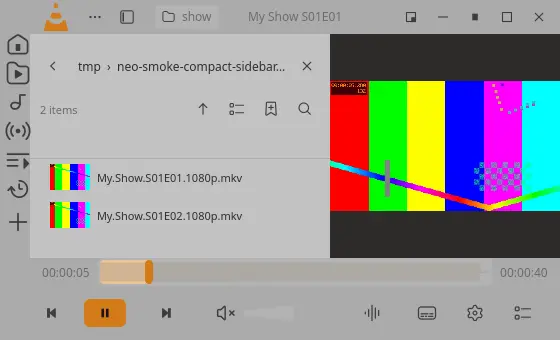
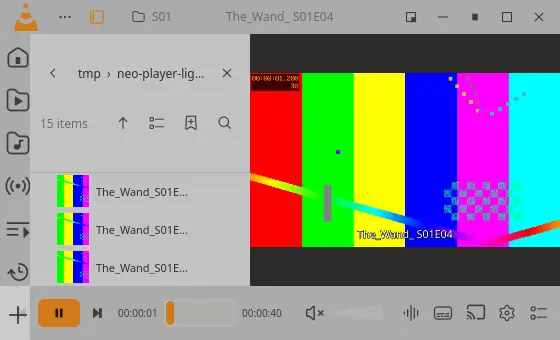
fix: match light video sidebar width to Figma

diff --git a/qml/Main.qml b/qml/Main.qml
@@ -126,7 +126,7 @@ ApplicationWindow {
     property bool bottomHot: false
     readonly property real playlistPaneWidth: Math.max(220, Math.min(375, width * 0.222 - navigationRail.width))
     property real libraryPaneLayoutWidth: libraryOpen ? Math.max(220, Math.min(410, Math.ceil(width * 0.19635)))
-        : (folderSidebarOpen ? Math.max(220, Math.min(500, width * 0.20))
+        : (folderSidebarOpen ? Math.max(220, Math.min(500, Math.ceil(width * 0.19635)))
            : (musicSidebarOpen ? Math.max(280, Math.min(380, Math.round(width * 0.19635))) : 0))
     Behavior on libraryPaneLayoutWidth {
         NumberAnimation { duration: 220; easing.type: Easing.OutCubic }

diff --git a/docs/figma-parity.md b/docs/figma-parity.md
@@ -64,7 +64,7 @@ The video canvas background uses Figma charcoal `#2C2B29` in both themes. Video 
 | **Player** — `187:328`, `970:3308`, `970:3792`, `970:2703`, `970:4028`, `6261:15078`, `247:445` | Main playback surface and its seven visual states. The metadata names all seven `Player`; node `6261:15078` is the Home library dashboard and `187:328` shows the Playlists navigation state. | `Main.qml`, `HomeView.qml`, `LibraryPanel.qml`, `PlaylistsPanel.qml`, `NavigationRail.qml`, `TopBar.qml`, `TimelineBar.qml`, `ControlBar.qml`, `SidePanel.qml`, `ControlItem.qml`, `PlayButton.qml`, `SeekBar.qml`, `ConeVolume.qml`, `ResumePill.qml`. Home opens a full library dashboard with Continue Watching video cards, indexed Listen Again music, and frequently visited indexed folders. Video cards use asynchronous VLC-decoded thumbnails and saved resume point/duration data; music cards show indexed cover art and open the selected track. The dashboard keeps the expanded rail, app title and home search toolbar while hiding playback controls. The persistent rail matches the Figma Home navigation labels and order: Home, Videos, Music, Network, Playlists, Recent and Add item. Selecting Home, Videos, Music, Playlists or Recent from the rail opens that view in a side pane beside the live player. The topbar Library control opens the Figma Home dashboard in that pane and toggles the entire rail and pane closed together, restoring the previous player or library context. The compact Home pane uses Figma-sized thumbnail rows for Continue Watching, Listen Again, visited folders and playlists. The dedicated expand action opens the full-page library, where the rail expands and the playback surface becomes the mini-player. Folder browsing remains available from the Videos library and file picker. Saved M3U, M3U8, PLS and XSPF files appear in a persistent Playlists pane; it can search, sort, change row density and play an entry. Its width scales with the player window to retain the Figma proportion from the default size to the 1920 px reference frame. The pane stays beside the live video, matching the layout in node `187:328`. The rail scales up to 210 px on wide windows, matching the folder-browser state in node `970:3308`. The browser toggles between the Figma five-column poster grid (`970:2703`) and four-column file list (`970:3792`); the mini-player moves to the lower-right in grid mode and lower-left in list mode, and grid thumbnails show saved/current playback progress. Opening a library view replaces the playback surface with a full-width local folder browser and hides the bottom transport bar; video files load asynchronous VLC-decoded thumbnails in the grid, the live video frame moves into a floating player card, and search filters filenames. Rail, track-picker, settings-panel, transport and icon controls support Tab focus and Space/Return activation with visible focus styling. The timeline and transport now share a single 54 px footer row, with the seek bar between Next and Volume; elapsed and duration labels are 64 px at desktop size, 48 px in compact windows and hidden in 320–399 px PiP while seeking remains available. This follows the one-row composition in Figma node `247:445`; preexisting saved layouts that included `time`, `seek` or `length` are migrated out of the movable control list. Compact windows retain reduced spacing. The seek bar supports Tab focus, Left/Right seeking and Home/End jumps, subtitle cue lookup, asynchronous local-video thumbnails and an audio waveform for local media. VLC decodes both off the UI thread, limited to two workers and 64 admitted thumbnail responses, with results held in a 16 MiB LRU cache; `bounded_image_cache_test` verifies the configured cost ceiling and least-recently-used eviction. Closing the UI cancels worker subprocesses and drains queued decoding before Qt image plugins tear down. Waveform extraction times out after 20 seconds on slow files. Track-picker geometry follows its button anchor and stays within the window when resized. The Video side panel previews the current frame as Original, Sepia, Invert, Posterize, Old movie, Gaussian blur, Sharpen, VHS and Grain; one VLC-decoded frame feeds all nine previews asynchronously through the bounded thumbnail cache. Selecting a tile updates VLC’s live `video-filter` chain and preserves unrelated filters. Focused real-VLC coverage confirms all nine previews load and the four additional filters apply while preserving the picture-adjustment filter. PiP switches to a compact 16:9 window, keeps its title clear at 320×180, shows only exit and quit in the top bar, requests always-on-top through Qt and additionally pins it through Hyprland, and restores the prior size and position (or maximized state) when the PiP exit button is clicked. Plain video playback hides the navigation rail and aligns the top and bottom bars to the left edge, matching `247:445`; Home, library and side-panel states show the rail. An idle folder browser omits the mini-player, matching `970:4028`. The TopBar uses the onboarding chrome layer only for the non-preview welcome/shortcut steps; in the theme preview and normal player it remains under `keyCatcher`, where its left inset accounts for the navigation rail. Smoke asserts both the 18 px theme-preview inset and the rail-width offset on the Playlists screen, covering the previous cross-parent anchor warning. The seven Player nodes listed here have now been compared at 1920×1080. Figma icon aliases are now checked against the canonical SVG resources directly: the icon test opens every alias target from the Figma resource bundle and compares its rendered pixels with the alias output; all 207 checksum-manifest entries (206 SVGs plus the index) match the pinned export commit. **Partial.** smoke coverage now verifies hover colors and focus rings for the transport and all 25 optional controls. Review artwork and waveform quality across varied real media, and always-on-top behavior under Hyprland. F11 now reaches a 1920×1080 fullscreen surface under Metacity on Xvfb; moving to the bottom edge reveals the timeline and controls, and exiting restores the 1120×680 window. A live XCB run on the 1920×1080 eDP-1 display confirmed fullscreen entry and tested both fullscreen-control preferences: controls stay visible when enabled; when disabled, chrome hides and a bottom-edge pointer event reveals it with the single-row 54 px footer. The toolbar layout was compared with Figma node `247:445`; its rail-free player frame, title bar and lower controls align. The one-hour test capture confirms that a ten-minute fade remains visible across the full timeline. A focused run on [Thoughtness.ogg](https://commons.wikimedia.org/wiki/File:Thoughtness.ogg), a 46-second CC0 song, loaded and displayed its varied musical waveform in VLC. A separate ten-minute FFmpeg-generated MP3 with five known amplitude sections displayed the expected quiet, loud, silent, medium and loud blocks; additional music genres remain to review. Fullscreen edge-reveal on a real display is now covered. | Smoke checks the timeline slot between Next and Volume inside the 54 px footer, its keyboard focus and Left/Right seeking, Home to start, End to playback end, pointer hover on the visible Player timeline requesting and decoding a local-video preview, asynchronous waveform decoding, and a one-hour audio waveform with a ten-minute fade. At 560×340 it also checks the compact labels, seek width and keyboard navigation; at 320×180 PiP it checks labels collapse while seeking remains enabled. Focused offscreen probes independently pass at 560×340 (`compact=true`, keyboard focus and Right seek beyond 5 s) and 320×180 PiP (transport/seek remain enabled and inside the window). The Light sidebar density probe decodes all 15 local thumbnails and reports 15 ready entries at 1920×1080 (`sidebarLayout=15/384/true`, `ready=15`; about 18 seconds). It also checks Home shelves, search and sort, compact-card mode, video-card playback, persisted resume progress, responsive layout and a decoded thumbnail at 1920×1080, playback-frame rail hiding and chrome alignment, an idle full-width folder browser without the mini-player, library indexing, playback, duration, next item and pause/resume. It focuses and activates video/recent side navigation, checks full-page folder browsing through the dedicated expand action, hidden bottom transport controls, the live mini-player and filename search, verifies a VLC-decoded folder thumbnail, toggles grid/list layout and mini-player corner placement at 1120 and 1920 px, saves an M3U8 into the persistent playlist folder, reopens the playlist view, filters a playlist name and verifies density/sort/width controls. It verifies PiP shrinks the window to 320×180 and restores its exact prior geometry. At 1120 and 1920 px it checks the rail and Playlists pane preserve their combined width ratio. It also checks popup dismissal/repositioning, clicks the Sepia and Original video-effect tiles while preserving the active picture-adjust filter, applies Gaussian blur, Sharpen, VHS and Grain through VLC while retaining adjustment, and waits for all nine asynchronous effect previews to load, and captures dark, light, compact, settings, timeline, expanded-navigation and Home/library/playlist states. The thumbnail provider smoke also submits 30 simultaneous requests (above its 24-job bound) and checks that every image eventually decodes without an error.| The refreshed [`player.webp`](screenshots/player.webp) is a 1920×1080 capture using the attributed MDN CC0 flower video; its timeline and transport share one 54 px footer row. At 1920×1080, visual comparisons now cover all seven listed Player nodes: `187:328` (playlist pane), `970:3308` (folder browser), `970:3792` (compact file list), `970:2703` (poster grid), `970:4028` (idle browser), `6261:15078` (Home) and `247:445` (player with hidden rail). The fresh 110-item compact-list capture matches node `970:3792` in four-column layout, 44 px row pitch, small decoded thumbnails and lower-left mini-player placement. A fresh comparison of node `970:2703` with the latest `folder-browser-grid-1920.png` confirms the 1920×1080 viewport, 210 px rail, header/tool row, five-column card sizing and lower-right mini-player placement. The smoke fixture contains only two generated clips rather than the reference’s 110 named episodes and poster artwork, so content-level poster parity remains open. The `187:328` playlist pane and bottom controls were also checked at 1920×1080 with the pointer revealing the controls; the combined rail and pane width follows the Figma proportion. The fullscreen toolbar was compared with node `247:445` during a live 1920×1080 XCB run on eDP-1; both fullscreen preference states and bottom-edge reveal were verified. XCB captures at 1920×1080 show the playlist Search tooltip on hover and a one-pixel accent focus ring on a rail button; the earlier 1120×680 capture shows the Playback Settings tooltip and focus ring. The full smoke run verifies hover colors and focus rings for the transport and all 25 optional controls; VLC-backed actions are exercised for Favorite, Thumbnail, Properties, Bookmarks and Replay. A focused run loaded all nine effect previews from the public [MDN CC0 flower clip](https://interactive-examples.mdn.mozilla.net/media/cc0-videos/flower.mp4); [`video-effects-flower.webp`](screenshots/video-effects-flower.webp) records the color-rich live frame and distinct effect tiles. Remaining visual checks: always-on-top behavior under Hyprland, plus waveform rendering on additional long-form tracks and genres. A live PiP run on the Cinnamon/Muffin desktop exposed `_NET_WM_STATE_ABOVE` and placed the 480×270 window at the expected lower-right corner. Hyprland-specific pinning still needs verification. |
 | **Player - Music** — `4767:23726`, `4778:25123` | Audio-focused player with artwork, “My Songs”, track title and a continue-watching state. | `MusicView.qml`, `LibraryPanel.qml`, `src/media_library.*`, `Main.qml`. Audio files from indexed folders are scanned asynchronously; TagLib reads title, artist, album, genre, duration and embedded cover art. SQLite persists the catalog and roots; case-folded search spans tags and file paths. Tracks, albums, artists and genres are browseable; opening an album, artist or genre lists its tracks. Folder removal and full catalog clearing remove database entries and unreferenced cached art. On the 1920×1080 Figma frame the sharp cover is 740×740 px, with a 72 px title gap and 22 px muted label; the cover scales down in compact windows. Title and artist share one line, with a darkened, full-window blurred copy of the cover behind the sharp artwork. The top bar shows “My Songs” during audio playback; clicking it toggles a 280–380 px music sidebar while playback stays visible. At 1920 px, the Songs/My Songs pane is 377 px wide, matching the Figma frame. The audio-only control bar has the Figma visualizer menu, which caps its height to the available window and scrolls its options in compact layouts. Its choices persist VLC's `audio-visual` and `effect-list` options and update the active VLC audio output, with Waveform mapped to VLC's `vuMeter` effect. **Partial.** A direct browser inspection confirms both Figma screen frames are flattened image fills; the circular visualization is part of the reference artwork, not an editable vector layer. The current `music.webp` is refreshed from the latest full smoke capture. Its layout was compared at 1920×1080: the 740 px square cover, 72 px title gap, one-row footer and metadata placement align. The local test track and artwork differ from the reference image. The shipped VLC visualizer remains live and user-selected, but uses VLC's native rendering style. | Smoke indexes tagged local audio, confirms metadata/artwork, case-insensitive tag search, filename fallback for missing tags, album grouping, artists/genres/videos, persistence after relaunch, and clearing database rows and artwork. A live offscreen run indexed the local music folder, captures the sidebar beside audio playback, confirms the second click closes it, checks that the displayed item count follows visible music tracks rather than indexed files, and checks the 740 px Figma artwork, title gap and label typography plus compact resizing. The visualizer popup tests all four effect mappings, Disabled, trigger toggling and outside-click dismissal. A focused VLC run confirmed all four modes create the active visualizer output during playback and Disabled stops it. A compact-window runtime check confirmed entering the 180 px PiP layout dismisses the transient popup and constrains its scroll viewport to the available height. A focused real-VLC offscreen capture confirms the blurred cover backdrop renders behind the sharp artwork. The music-player smoke capture waits for asynchronous waveform extraction and uses a time-varying audio fixture with the authored dark visualizer-style cover in `tests/fixtures/music-cover.png`; its screenshot visibly contains the decoded waveform bars.| Captures of both Figma nodes were reviewed in the local browser. The 1920×1080 music-library sidebar was compared against node `4778:25123`; the 740 px cover, 72 px title gap and muted label size match the Figma measurements, and the waveform is visible after decoding. The sidebar count now tracks visible music-model rows; the real-VLC scenario confirms it shows `3 items` for three audio tracks alongside a cover image, matching the model rather than the four indexed files. A refreshed 1920×1080 real-VLC capture shows the authored visualizer-style cover fixture and its decoded waveform. The Figma artwork is a flattened raster composition, so its baked circular visualization cannot be independently compared with VLC's native live visualizer. Separate VLC Neo integration runs read title/artist/album/genre from MP3, FLAC, Ogg and M4A, used the filename for an untagged WAV, and removed stale paths after a media rename and removal on rescan. Embedded covers from MP3, FLAC and M4A produced the same SHA-256 as the source image. A local run indexed 5,000 M4A paths: adding the root returned in 14 ms and the scan completed in under 9 seconds on this machine. |
 | **Player - hide UI** — `3328:11554` | Video view with interface controls hidden. | `Main.qml`, `TopBar.qml`, `ControlBar.qml`. Ctrl+H hides the top bar, navigation rail, home screen and bottom controls, including when no media is loaded. Moving to the top edge reveals the header; moving to the bottom edge reveals transport controls; returning to the center hides them again. The Figma frame shows a decorative pixel-art cat as its video content; Neo leaves the active video visible. **Implemented.** | Smoke verifies the empty and playing states, checks top- and bottom-edge reveal plus center hide, and captures a 1920×1080 frame with OSD and title overlays disabled. The test assertions confirm all chrome flags are hidden after the pointer returns to the center, and that Ctrl+H suppresses its confirmation toast when hiding the interface.| Compared node `3328:11554` in the connected Figma browser. The 1920×1080 Xvfb/XCB capture shows the Sintel trailer while the title bar, controls and toast are absent. Direct comparison with the Figma frame confirms the full-screen hidden-chrome state; the visible difference is the active media content (Sintel versus Figma’s pixel-art cat). Sintel attribution and CC BY 3.0 are recorded in the README. |
-| **Player - Light** — `2425:13624` | Light player with a narrow folder list beside the live video. | `NeoTheme.qml`, `Main.qml`, `TopBar.qml`, `LibraryPanel.qml`. Clicking the video folder chip opens a responsive folder sidebar while video remains in the main surface; clicking it again closes the sidebar. The frame was compared in the browser at 1920×1080. Its sidebar occupies about 20% of the window; Neo uses that proportion at standard and wide sizes, with a 220 px minimum for compact windows. Compact rows use small VLC-decoded video thumbnails even when the full browser is in grid mode; the sidebar no longer lets grid-card sizing overflow its 38 px rows. The compact folder header now uses a breadcrumb row followed by an item-count and sort/view/search toolbar; Play folder and Queue all stay in the full folder browser, and the existing pin action remains available in the compact toolbar. The toolbar and first file row were visually rechecked against the Figma frame after adjusting compact-only spacing. Search starts as an icon and expands into a field on demand; the full-width browser retains its search field. The light rail and title bar use Figma A3 at 75% opacity over the charcoal canvas; the sidebar uses B1 at 80%. [`player-light-sidebar.webp`](screenshots/player-light-sidebar.webp) shows the current implementation. **Partial.** the poster artwork is dynamic media content. A local 1920×1080 comparison and a 560×340 resize check covered landscape, 4:3, portrait and square video rows; all thumbnails stay inside their fixed row bounds and the sidebar remains 300 px wide. | Full smoke verifies sidebar visibility, responsive width, decoded video thumbnails, collapsed/expanded search and filtering, pinning and navigation, closure, and compact-window usability; the corrected full real-VLC smoke run passed all 668 checks; the earlier shortcut-reset timing failure was fixed by waiting for the dialog to open, then verified in the full run. The toolbar assertion confirms it is shown in compact folder mode and the Play folder / Queue all row is hidden there.| Reopened Figma node `2425:13624` in the authenticated browser and compared it with the local capture: the rail and pane widths, header and file-row start positions align. A fresh lossless XCB capture sampled the sidebar at RGB 194,194,193, matching Figma at the same light-gray panel fill; its blank video canvas sampled RGB 44,43,41, matching Figma charcoal `#2C2B29`. The earlier one-channel differences came from comparing against a lossy WebP capture, so no theme-token change was needed. The local media fixture has different artwork and only two files. The fresh 560×340 [`player-light-sidebar-compact.webp`](screenshots/player-light-sidebar-compact.webp) capture confirms the sidebar stays at 300 px, leaves 260 px for video, keeps its compact toolbar and search available, and lets search open and close without hiding the panel. |
+| **Player - Light** — `2425:13624` | Light player with a narrow folder list beside the live video. | `NeoTheme.qml`, `Main.qml`, `TopBar.qml`, `LibraryPanel.qml`. Clicking the video folder chip opens a responsive folder sidebar while video remains in the main surface; clicking it again closes the sidebar. The frame was compared in the browser at 1920×1080. Figma’s side pane measures 377 px; Neo now uses the same 19.635% proportion at standard and wide sizes, with a 220 px minimum for compact windows. Compact rows use small VLC-decoded video thumbnails even when the full browser is in grid mode; the sidebar no longer lets grid-card sizing overflow its 38 px rows. The compact folder header now uses a breadcrumb row followed by an item-count and sort/view/search toolbar; Play folder and Queue all stay in the full folder browser, and the existing pin action remains available in the compact toolbar. The toolbar and first file row were visually rechecked against the Figma frame after adjusting compact-only spacing. Search starts as an icon and expands into a field on demand; the full-width browser retains its search field. The light rail and title bar use Figma A3 at 75% opacity over the charcoal canvas; the sidebar uses B1 at 80%. [`player-light-sidebar.webp`](screenshots/player-light-sidebar.webp) shows the current implementation. **Partial.** the poster artwork is dynamic media content. A fresh 1920×1080 comparison measures the pane at 377 px; focused responsive probes measure 262 px at 1333 px and 220 px at 560×340, leaving 310 px for video in the compact window. Landscape, 4:3, portrait and square video rows stay within their fixed thumbnail bounds. | Full smoke verifies sidebar visibility, responsive width, decoded video thumbnails, collapsed/expanded search and filtering, pinning and navigation, closure, and compact-window usability. The latest completed CI run (`40811644836`) passed 849/849 real-VLC smoke assertions before this width adjustment; focused real-VLC geometry probes after the change verify 377/262/220 px at 1920/1333/560 px. The compact toolbar stays visible while Play folder and Queue all remain hidden there.| Reopened Figma node `2425:13624` in the authenticated browser and compared it with the local capture: the rail and pane widths, header and file-row start positions align. A fresh lossless XCB capture sampled the sidebar at RGB 194,194,193, matching Figma at the same light-gray panel fill; its blank video canvas sampled RGB 44,43,41, matching Figma charcoal `#2C2B29`. The earlier one-channel differences came from comparing against a lossy WebP capture, so no theme-token change was needed. A fresh fixture comparison contains 15 rows and reports 15/15 visible thumbnails ready; its test-pattern artwork differs from Figma. The refreshed 560×340 [`player-light-sidebar-compact.webp`](screenshots/player-light-sidebar-compact.webp) capture confirms a 220 px pane, 310 px video area, and visible compact toolbar and search. |
 | **Player - customize** — `2107:5604`, `2160:6137`, `2160:6564`, `2160:7005`, `2160:7437`, `2160:7869`, `6587:19923`, `2160:8301`, `2160:8732` | Nine separate visual states: the palette, multiple saved control-bar layouts with already-used items removed from the palette, and a folder-browser state with the customized bar. Figma frame captures for all nine have now been inspected; the last state (`2160:8732`) is the folder browser, not an open customization dialog. | `CustomizeDialog.qml`, `ControlItem.qml`, `ControlBar.qml`, `TimelineBar.qml`, `NeoTheme.qml`, `MediaPropertiesDialog.qml`. Palette has 30 supported Figma controls in a 9-column grid; the unsupported HDR action leaves one reserved empty slot at its Figma position, while Playlist Name displays the opened playlist filename; the 1060×666 dialog and compact tiles align with node `2107:5604`. At short window heights, the content scrolls above a fixed footer so profile actions stay reachable. The fixed timeline, elapsed time and duration stay outside the movable palette. Previously saved `time`, `seek` and `length` controls are filtered out during layout reads, preserving the rest of each user's layout. Previous, Play and Next remain fixed on the bar, cannot be removed, and cannot be dragged directly; other controls can be added, reordered and removed around them. HDR remains omitted because VLC Neo has no corresponding working action. Reset/Save/Cancel are separate. Implemented controls include persistent favorites, seek-thumbnail toggle, replay, media properties, bookmarks and chapter access, plus 15-second skips, metadata labels, playlist/home/settings actions and quit. New installs use the Figma transport, fixed timeline and audio/subtitle/settings/queue layout; extra Neo controls remain available in the palette. Named profiles save and restore theme, accent, auto-hide behavior, window startup preference, control layout and a curated set of supported VLC playback, decoding, buffering, audio/video filter and subtitle appearance options. Below 720 px, metadata controls and leading flexible space collapse so playback controls flow from the left; below 400 px, the bar retains Previous, Play, Next, volume and fullscreen. **Partial.** | Full smoke verifies the 30 active controls, the fixed Figma HDR slot and Playlist Name position, keyboard focus and activation of transport/icon controls, focus-fill and accent-ring assertions for palette/bar tiles, Space add/remove actions, fixed transport controls, compact toolbar reflow at 560 px and 320 px, dynamic palette membership, legacy-layout migration, drag add/reorder/remove, cancel, action behavior and a customized folder-browser layout. A focused dialog run saves a named profile, scrolls to its row and activates Apply, then confirms that buffering, hardware-decoder, video-filter, subtitle-style and playback options are restored; proxy-password injection is rejected. The corrected full smoke passed all 668 checks with the rebuilt `build-fidelity2` plugin, including the shortcut-reset assertion and recording scenario under full-suite load. Focused palette checks verify transparent/borderless idle tiles, Figma-colored pointer hover, and the accent focus ring.| Rendered and compared local 1920×1080 captures for the saved-layout states in `2160:6137`, `2160:6564`, `2160:7005`, `2160:7437`, `2160:7869`, `6587:19923` and `2160:8301`. The `2160:8732` folder-browser state was also compared in the connected Figma browser; rail and pane widths, titlebar, timeline and transport align. Its 15 named media items and pixel-art video differ from the two generated fixture files and test video in the local capture. The freshly regenerated `customize.webp` matches node `2107:5604` with the unsupported HDR slot kept empty; the Quit VLC label now matches the reference: Figma palette items have no card outlines, so the idle local palette tiles are transparent and borderless. The pointer-hover fill uses `#191919`, matching Figma Button Variant2; focused tiles retain the accent outline. The smoke now pointer-targets the Settings, Queue, Audio, Subtitle and Play controls by object name; a focused real-VLC run at 1120×680 confirmed each reports its Figma hover fill and icon/accent color. The centered title now follows VLC media metadata, respects `qt-name-in-title`, and elides within its 42% width. Directly comparing Figma node `2160:6137` in the connected browser showed its media title centered in the titlebar; a focused VLC run confirmed the matching dynamic label and the fixed app-label fallback. The smoke pointer-targets Settings, Queue, Audio, Subtitle, Play, Previous and Next and checks the volume-mute hover in dark (`#191919`) and light (`#B3B3B3`) themes. A focused real-VLC run then appended each of the 25 optional icon controls to the default layout one at a time and verified its visible hover fill, one-pixel accent focus ring and focused hover surface; the smoke runner now repeats all 50 checks. Palette/bar tiles have their own focus-ring checks. |
 | **Settings - global** — `999:5047`, `3046:9282` | Global/app preferences: appearance, startup, diagnostics, developer options and advanced settings. | `SettingsDialog.qml` follows Figma's Global Settings header, search field and App / Media / System category groups. A persisted Simple / Advanced switch exposes VLC options marked advanced without discarding their stored values; category icons switch to their exported Figma active-state SVGs when selected; the refreshed Video capture uses `video-active.svg`. Numeric controls validate input and retain fractional values for float options. Theme/accent, one-instance, queue behavior, file logging, browsable log destination/detail, VLC verbose logging as Developer mode and the `qt-error-dialogs` confirmation/error switch are wired; onboarding access is under Interface settings. The log destination field is 180 px wide and its Browse button stays beside it. Startup includes an opt-in VLC Neo update check against the project's public GitHub tags, with semantic version comparison and a daily cooldown; it reports a newer tag and never downloads or installs software. The installed version comes from CMake's project version. The header keeps the Figma search/title/close layout; the redundant quick detail toggle was removed. The Advanced Options control stays named as in Figma when expanded and sits at the bottom of the page. The expanded section maps minor-warning visibility to VLC quiet mode, log format to `logmode`, statistics collection to `stats`, and additional interfaces to `extraintf`. Global accent swatches use the compact square treatment from the Figma frame; onboarding retains its separate circular swatches. The frame was compared at its 1048×865 Figma dimensions. The Figma language selector is represented by a disabled English-only row with a clear explanation; additional interface translations are not bundled. **Partial.** | Smoke asserts the 1048×865 Figma frame and 180 px log destination field, captures the Figma Global Settings example state in `docs/screenshots/settings-global.webp`, exercises category filtering and the detail-level button, verifies that the log-path Browse button opens the native save picker, checks integer/float parsing, round-trips a float VLC option, verifies advanced-option visibility/value/mode persistence, round-trips `qt-error-dialogs` and VLC verbose logging, confirms the Developer mode switch updates when verbosity changes elsewhere, verifies Simple/Advanced visibility plus the live quiet/logmode/stats controls, checks update opt-in/default state, numeric tag ordering, daily cooldown and preference persistence, and checks theme/accent and VLC config persistence. A live offscreen request to GitHub returned successfully and found no tag newer than `v0.1.0`.| Compared the refreshed 1048×865 `settings-global.webp` against Figma node `999:5047`: English language, Dark theme, orange accent, confirmation and update checks off, logging on, Developer mode off and Errors only match the example state. Section spacing, diagnostics path controls, category rail and Advanced Options position align. The Figma inspector confirms this node is intentionally set to 20% opacity, so its dimmed colors do not establish the intended full-opacity app palette. The second node, `3046:9282`, is at 100% opacity. Its expanded Advanced controls for minor warnings, log format and playback statistics now map to VLC’s `quiet`, `logmode` and `stats` settings; the additional-interface row maps to VLC’s `extraintf` and is labeled for that real behavior. The Figma field named “Additional command line options” has no equivalent live VLC config option, so Neo keeps its general option editor instead of implying arbitrary command-line tokens will be applied. [`settings-global-advanced.webp`](screenshots/settings-global-advanced.webp) records the expanded state. The visible Core output verbosity and generic option editor are additional Neo controls. Additional UI translations remain an explicit localization gap. |
 | **Settings - interface** — `3046:10057`, `3062:11379` | Skin, window behavior, playback controls, notifications, system tray and auto-hide options. | `SettingsDialog.qml` fills the application window edge to edge with square corners and follows its resizing at the Figma frame size. At 1048×865, runtime bounds are exactly (0,0,1048,865), and the Interface page section positions match node `3046:10057`. Below 740 px, the category rail compacts to icon buttons with hover labels, preserving the 320 px settings fields at 560×340. The page gives the category its Figma title and follows the Figma order: Skin, Window, Playback Controls, Notifications and System Tray, then Setup. Auto-hide uses the Figma drop-down and a continuous 0–10 s slider; the supported row controls use the 320 px Figma width. `NCombo.qml` renders the selected value, outlined field and visible option rows, with selected-option checkmark, pointer selection, keyboard navigation and outside-click dismissal. Its compact 32 px field and option rows fit the preferences layout. `NSwitch.qml` now uses the Figma's 62 × 28 px ON/OFF proportions, with focus and keyboard activation. Interface controls include persistent fullscreen visibility, compact startup sizing, remembering window size/position, keeping the window above others, showing the media title in the system window title, resizing to video dimensions, and selecting the current or a detected display. The custom header shows the active media title when `qt-name-in-title` is enabled and falls back to “VLC Media Player” when that preference is disabled or no media is active; long titles elide within the centered title area. The selected display is applied before entering fullscreen. Window geometry is restored at startup and saved when Neo closes. The tray icon registers through `org.kde.StatusNotifierWatcher` without Qt Widgets and reopens Neo when activated; track notifications use `org.freedesktop.Notifications` according to VLC's Never / When minimized / Always preference. The Skin section writes VLC's `intf=skins2` preference and the selected `.vlt` path writes `skins2-last`; the regular `vlc` launcher honors skins2 after restart, while `vlc-neo` always opens Neo. The embedded-video and window-decoration controls store their VLC video-output options and explain that Neo's own player window always embeds video and draws its custom title bar. Those two options affect compatible VLC video-output interfaces, not Neo's QML window. **Partial.** | Smoke checks the skins2 interface selection and restart notice, `.vlt` file picker, embedded-video and decoration option round trips, full-window preference geometry (`settingsBounds=0,0,1048,865`) and resizing, the compact icon rail and 320 px controls at 560×340, slider mouse/keyboard changes, auto-hide modes, topmost/title behavior, fullscreen-on-open, F11 fullscreen entry/exit with geometry restoration, display selection/config persistence, compact startup, geometry save/restore, tray registration when a watcher is available, access to onboarding from Interface settings, dropdown toggle/selection behavior, and captures the interface page to `docs/screenshots/settings-interface.webp`. A VLC playback check confirms the titlebar displays the media title when enabled and falls back when disabled; a config round trip confirms `qt-video-autoresize` is exposed and writable.| Both 1048×865 captures were compared with nodes `3046:10057` and `3062:11379` in the Figma browser at 86% canvas zoom. The dropdown field and open menu were compared with the Figma component named `Dropdown`; the switch proportions were compared on the same Figma settings frame. The refreshed [`settings-interface.webp`](screenshots/settings-interface.webp) uses the matching Figma preference states and fills the frame edge to edge; Skin, Window, Playback Controls and Notifications and System Tray section positions were compared at 1048×865; a real-VLC resize run confirms the compact 560×340 view retains category navigation and the full-width auto-hide control. The screenshot sandbox sets `intf=skins2` to reproduce the Figma ON state while the smoke runner explicitly starts Neo. Confirm skins2 rendering with a valid `.vlt` skin. On this Ubuntu install, both `/usr/share/vlc/skins2/default.vlt` and an official VideoLAN `VLC Darkness.vlt` fail extraction and VLC exits with “no skins found”. This VLC build reports `--disable-libtar`, which likely prevents loading these archive-based skins; the regular launcher honors `intf=skins2`, but skin rendering remains unverified. F11 entry/exit was also checked under Mutter on the 1920×1080 eDP-1 display: fullscreen covered the display and exiting restored the 1120×680 window geometry. Only one monitor is available here, so multi-screen selection remains open. The secondary Figma frame `3062:11379` was also opened in the authenticated browser and compared with the local 1048×865 capture: the search/header, category rail, skin controls, window options and playback-controls sections align in size and position. Skin rendering and the documented decorations limitation remain open. |
@@ -221,7 +221,7 @@ OpenSubtitles API-key visual follow-up (2026-10-29): a real 1048×865 capture sh
 
 Cross-distro CI follow-up (2026-10-29): run [`40801750828`](https://github.com/alexandreolives/vlc-neo/actions/runs/40801750828) for `b486a71` failed during build on both Arch and Mint because `platform_pip_test` includes `platform.hpp`, which now uses QtDBus, but the test target did not link `Qt6::DBus`. The dependency is now declared for that target; the focused `platform_pip` CTest passes locally. The 50,000-row probe was not reached in that failed run and awaits the next cross-distro CI result.
 
-Light player control-bar recheck (2026-10-29): fresh Figma screenshot MCP node `2425:13624` renders at 1600×900 from the 1920×1080 design. Its Videos side pane has a 50 px rail, 377 px pane and a 54 px control bar spanning x=0..1920. The matching 1920×1080 light-theme real-VLC capture had previously started the bar at x=50, shifting its transport and seek controls by the rail width. `ControlBar` now spans the full window; the focused run measures x=0, width=1920, y=1026, height=54 with 15 list items and active video. `scripts/smoke-test.sh` asserts the full-window bar bounds in the Videos side-pane state. Episode media artwork differs because the Figma export contains no source video files.
+Light player control-bar recheck (2026-10-29): fresh Figma screenshot MCP node `2425:13624` renders at 1600×900 from the 1920×1080 design. Its Videos side pane has a 50 px rail, 377 px pane and a 54 px control bar spanning x=0..1920. The matching 1920×1080 light-theme real-VLC capture had previously started the bar at x=50, shifting its transport and seek controls by the rail width. `ControlBar` now spans the full window; the focused run measures x=0, width=1920, y=1026, height=54 with 15 list items and active video. A fresh 1:1 `browser` comparison then exposed that the folder pane itself was 384 px wide instead of Figma’s 377 px. `Main.qml` now uses the Figma 19.635% proportion for this pane too. Focused real-VLC probes return 377 px at 1920, 262 px at 1333, and the 220 px compact minimum at 560; the latter leaves 310 px for video. The refreshed standard and compact screenshots show 15 items, with all 15 visible thumbnails ready in the desktop capture; their test-pattern artwork differs from Figma. `scripts/smoke-test.sh` asserts the exact 1920 and responsive 1333 px widths. Episode media artwork differs because the Figma export contains no source video files.
 
 Cross-distro CI follow-up (2026-10-29): run [`40802485745`](https://github.com/alexandreolives/vlc-neo/actions/runs/40802485745) for `6c8c403` passed on Arch and Linux Mint. Each distro passed all 13 CTests and 845/845 real-VLC smoke assertions; Mint's install and uninstall checks also passed. The 110-item library test and 50,000-row search probe passed on both (the latest search result settled in 108 ms on Arch and 85 ms on Mint). The newer `b2c3734` control-bar geometry change is still running in CI run `40802882062`.
 
